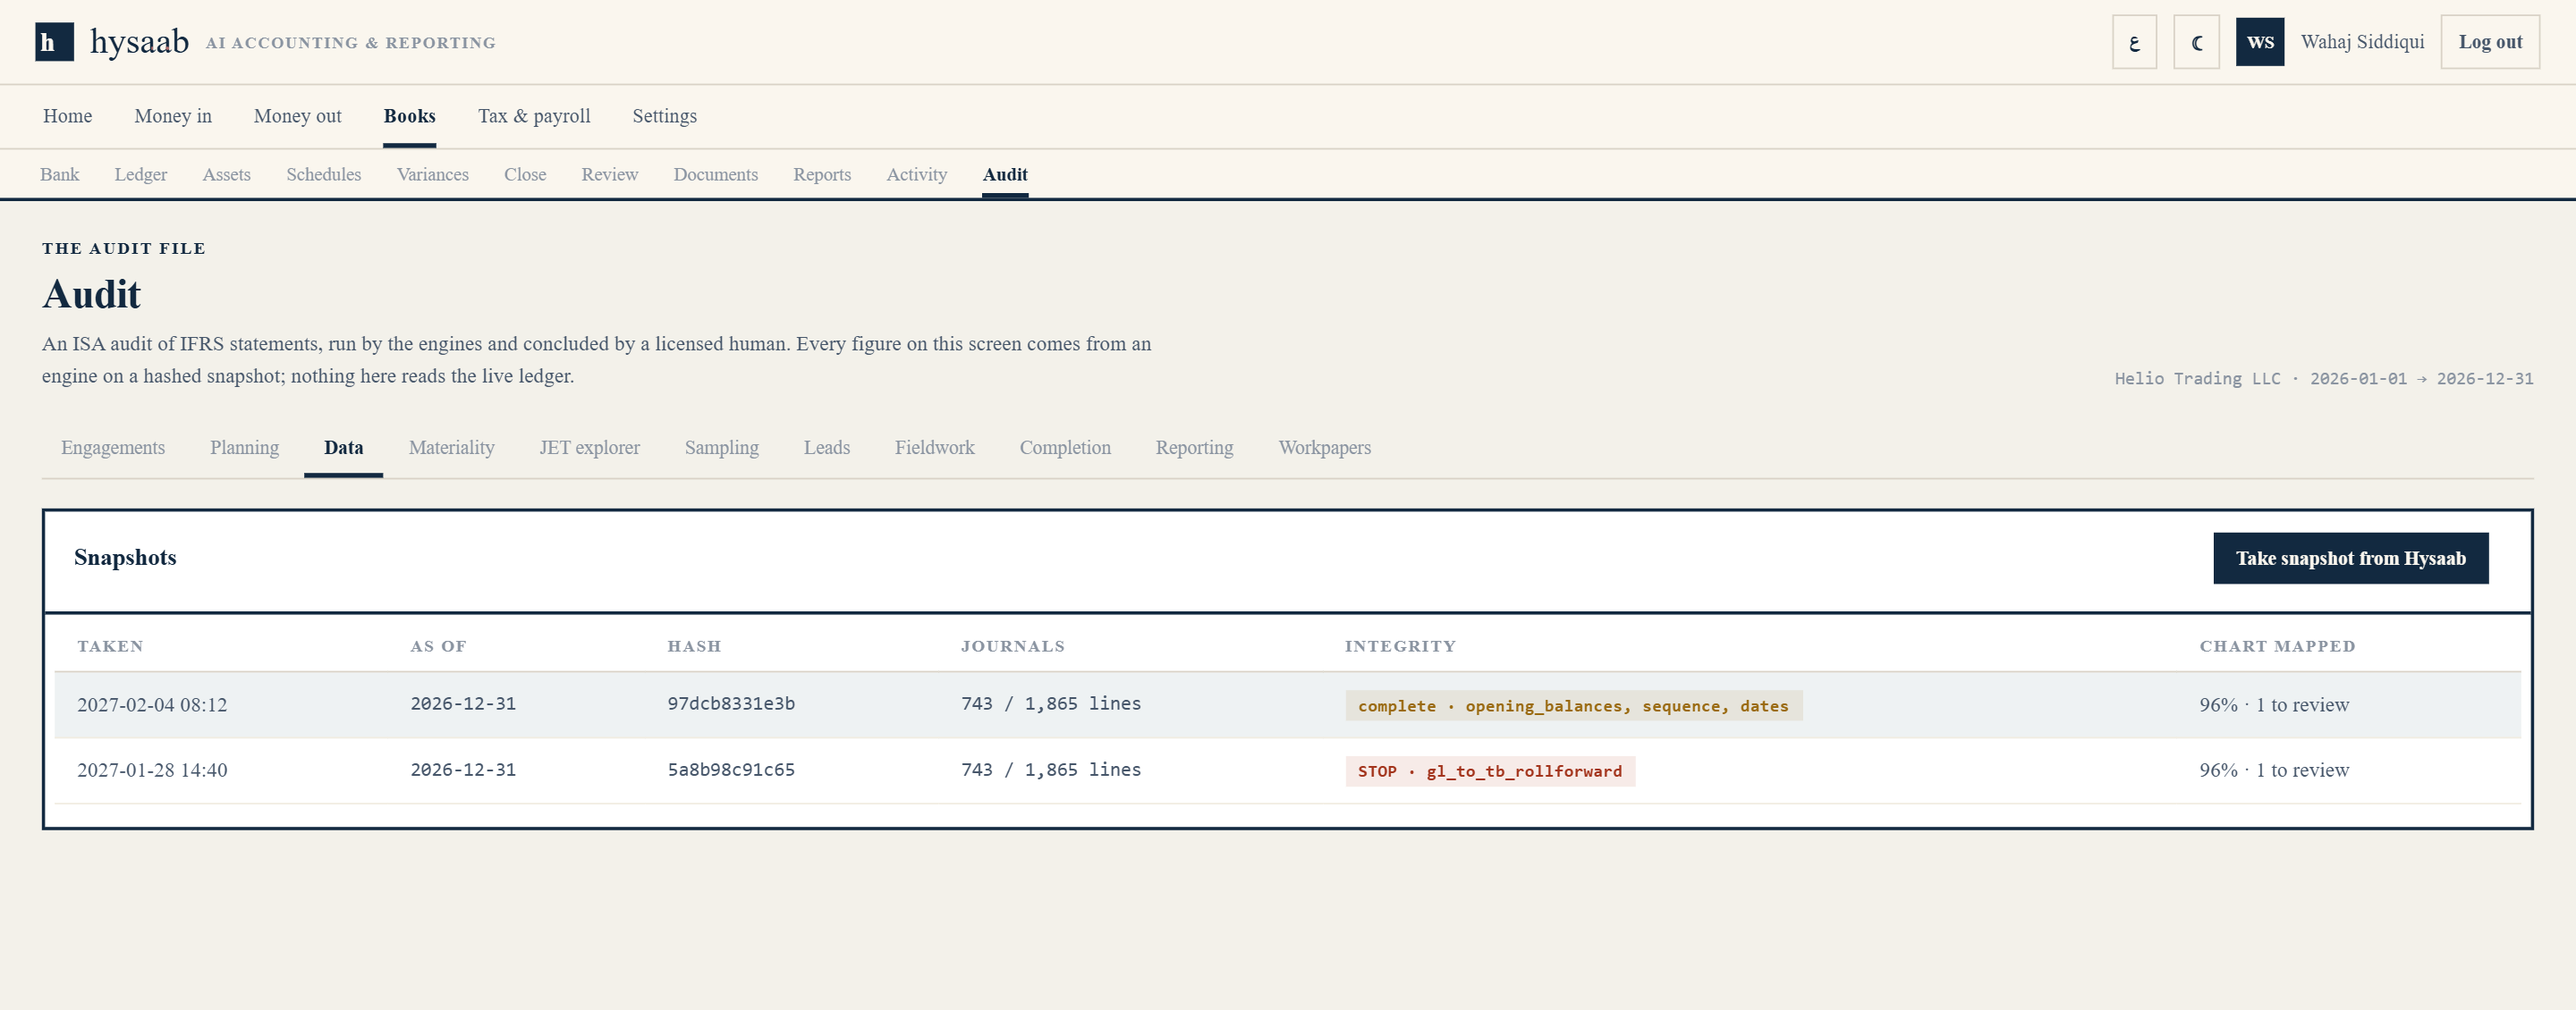
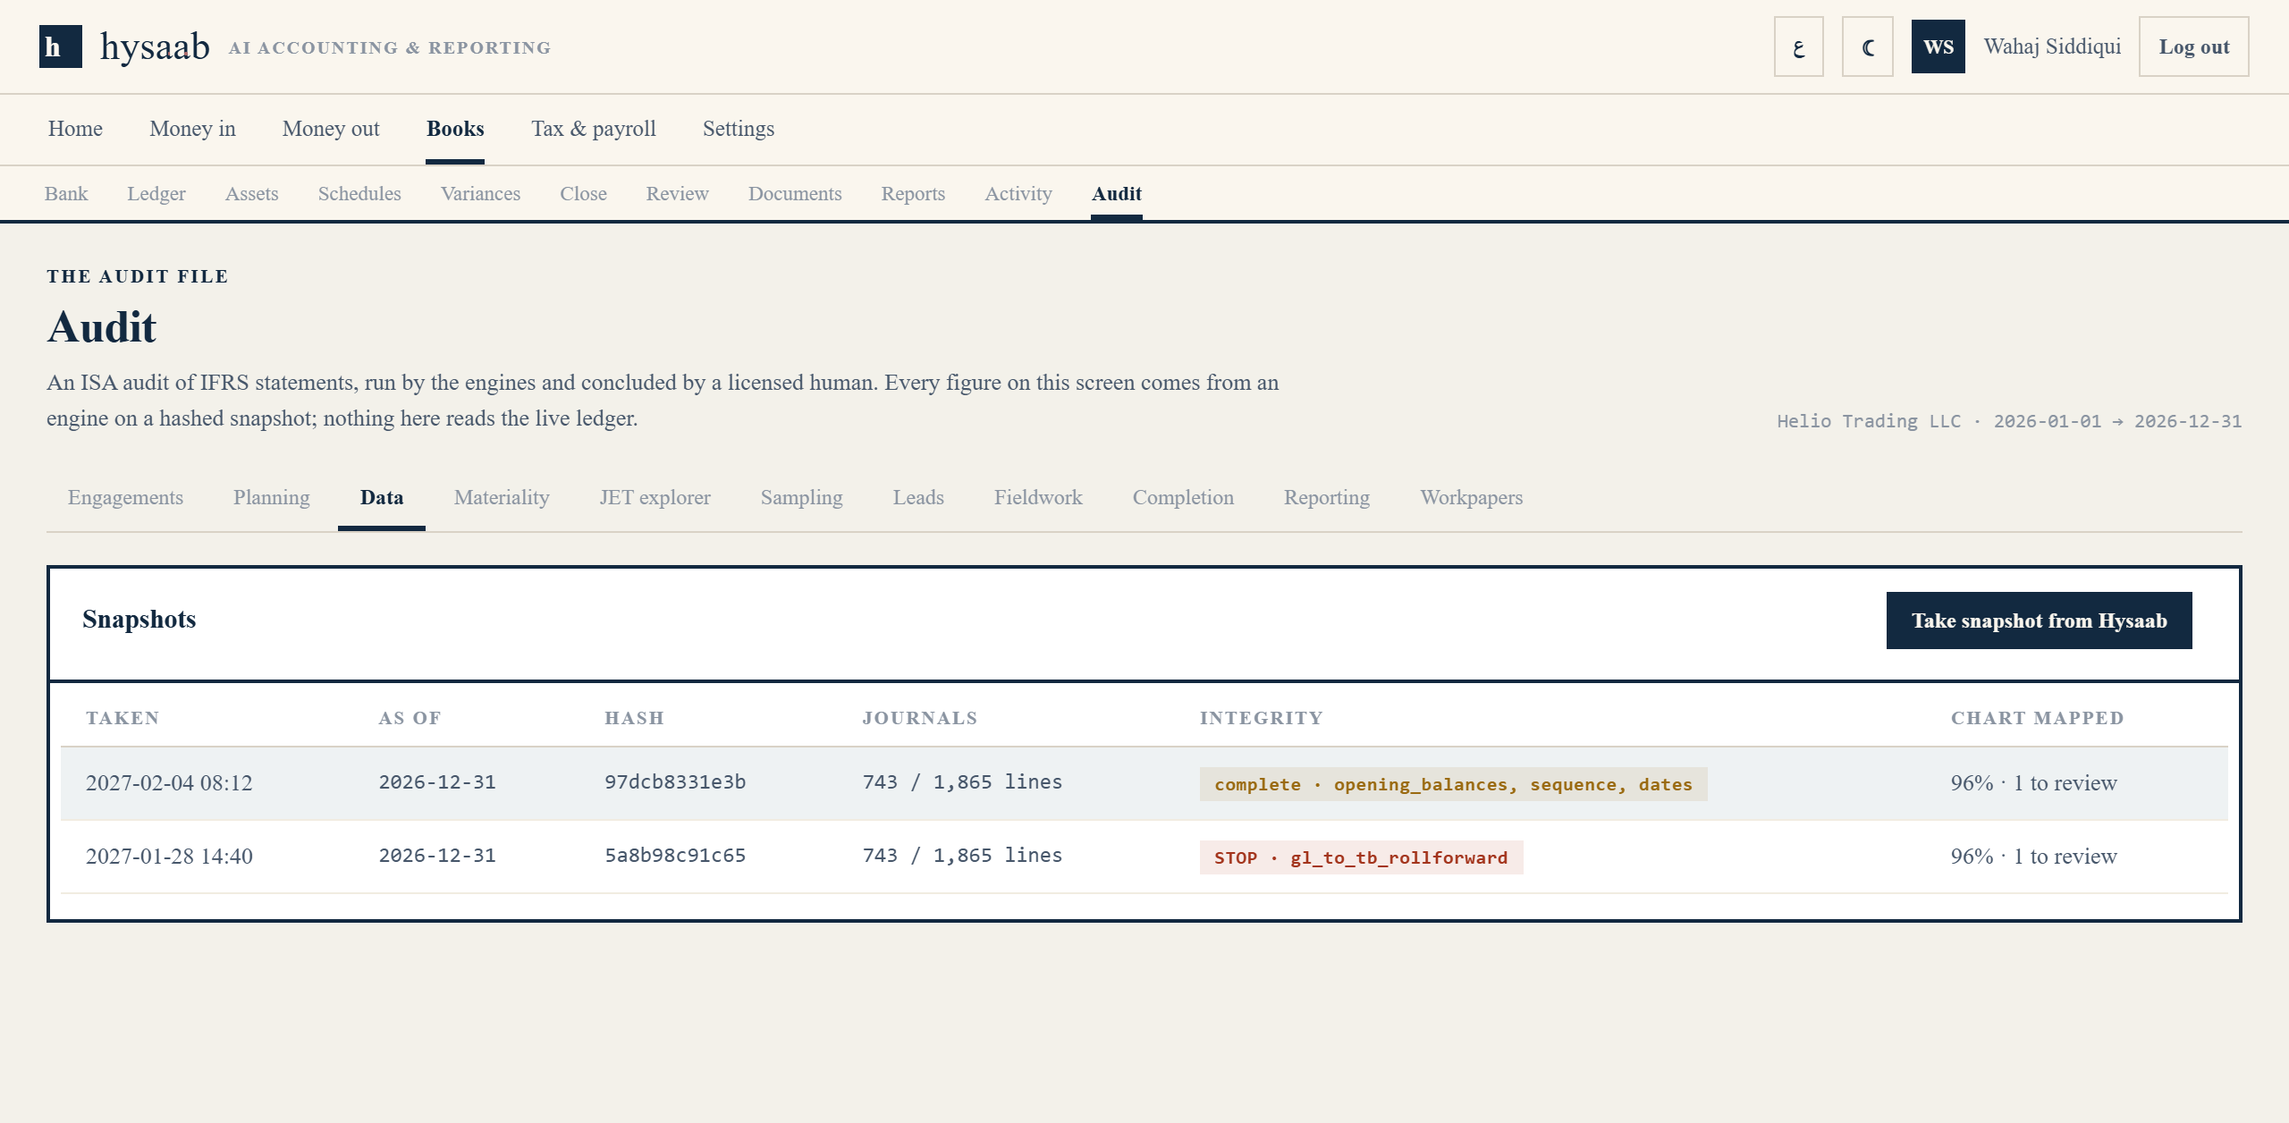
Fix a class collision that broke the homepage demo, and make the audit shots readable
Two faults, one of them mine from this morning and live since.

1. .hy-step and .hy-steps already belong to the homepage Demo component.
   The walkthrough I added reused both names, so every demo beat picked up
   56px of padding and a rule, the numbered badge (a 16px navy square) was
   restyled into an uppercase blush kicker, and the annotation column
   collapsed to one word a line. On /audit the same collision rendered each
   step kicker as a black square with its label wrapping behind the heading.
   The walkthrough classes are now hy-walk*, and the Demo is back to its
   original geometry: 16x16 navy badge, flex row, no padding, 11.5px body.

2. The screenshots were unreadable. The app was captured at a 1590px
   viewport and shown in a 797px column, so its 12.5px type landed at 6px,
   and next/image was serving a 780px source into that box and upscaling it.
   The walkthrough now runs full width with the copy above the shot, the app
   is recaptured at a 1280px viewport, and sizes is honest. The app renders
   at 1.04x on a 1440px screen: every figure legible at last.

The hero is now the materiality card on its own rather than a whole screen
shrunk to a third: same engine output, readable at the size it is shown.

diff --git a/app/(en)/audit/page.tsx b/app/(en)/audit/page.tsx
@@ -16,7 +16,7 @@ export const metadata = {
    never by hand for the picture. */
 const STEPS: {
   n: string; h: string; p: React.ReactNode; facts: [string, React.ReactNode][];
-  shot: { src: string; w: number; h: number; alt: string }; bar: string; cap: string; flip?: boolean;
+  shot: { src: string; w: number; h: number; alt: string }; bar: string; cap: string;
 }[] = [
   {
     n: "01 · The population",
@@ -27,7 +27,7 @@ const STEPS: {
       ["Sequence", <>Missing journal numbers are listed as gaps for the client to explain.</>],
       ["Hashed", <>SHA-256 on the snapshot. Every later figure cites the hash it came from.</>],
     ],
-    shot: { src: "/shots/audit-data.png", w: 2880, h: 1130, alt: "hysaab audit snapshots: the first pull marked STOP for a broken general-ledger roll-forward, the corrected pull marked complete, both with their SHA-256 hashes" },
+    shot: { src: "/shots/audit-data.png", w: 2560, h: 1256, alt: "hysaab audit snapshots: the first pull marked STOP for a broken general-ledger roll-forward, the corrected pull marked complete, both with their SHA-256 hashes" },
     bar: "Data · snapshots and integrity",
     cap: "The first snapshot stopped the file: the client's trial balance predated a journal in the ledger.",
   },
@@ -40,10 +40,9 @@ const STEPS: {
       ["Materiality", <>Computed from this year's figures, with every candidate benchmark shown and the choice explained.</>],
       ["The programme", <>Only the procedures that fit the chart are instantiated. No tax recompute where there is no tax account.</>],
     ],
-    shot: { src: "/shots/audit-planning.png", w: 2544, h: 2320, alt: "hysaab audit planning: phase strip, the B6 risk register with nine significant risks by line and assertion, and the planning procedures with their last run" },
+    shot: { src: "/shots/audit-planning.png", w: 2540, h: 2360, alt: "hysaab audit planning: phase strip, the B6 risk register with nine significant risks by line and assertion, and the planning procedures with their last run" },
     bar: "Planning · risk register and procedures",
     cap: "Nine significant risks, each with the factor that raised it. The gate stays shut until the partner approves.",
-    flip: true,
   },
   {
     n: "03 · Journal-entry testing",
@@ -54,7 +53,7 @@ const STEPS: {
       ["Thirty criteria", <>Post-close postings, round numbers, weekends and holidays, blank narratives, seldom-used accounts, keyword hits, duplicates, reversals, segregation conflicts, entries just below an approval threshold.</>],
       ["Auditable", <>Each row carries the criteria that flagged it. The selection is seeded, so it reproduces.</>],
     ],
-    shot: { src: "/shots/audit-jet.png", w: 2544, h: 2320, alt: "hysaab audit journal-entry testing: every journal scored against thirty criteria, stratified above performance materiality, scored and random, with the criteria hits and vouching result on each row" },
+    shot: { src: "/shots/audit-jet.png", w: 2540, h: 2360, alt: "hysaab audit journal-entry testing: every journal scored against thirty criteria, stratified above performance materiality, scored and random, with the criteria hits and vouching result on each row" },
     bar: "JET explorer · ISA 240 journal testing",
     cap: "The top rows are the planted ones: revenue booked after year-end, a suspense plug, a duplicate payment, a capitalised expense, a related-party fee.",
   },
@@ -67,10 +66,9 @@ const STEPS: {
       ["Attribute too", <>Control testing at ninety-five percent confidence with its own sample table.</>],
       ["Honest answer", <>An upper limit above performance materiality is reported as not accepted, not explained away.</>],
     ],
-    shot: { src: "/shots/audit-sampling.png", w: 2544, h: 2320, alt: "hysaab audit sampling workbench: monetary-unit sample design, the selection with top stratum and sampled items, audited values entered, and the evaluation with the upper misstatement limit" },
+    shot: { src: "/shots/audit-sampling.png", w: 2540, h: 2360, alt: "hysaab audit sampling workbench: monetary-unit sample design, the selection with top stratum and sampled items, audited values entered, and the evaluation with the upper misstatement limit" },
     bar: "Sampling · monetary-unit sample",
     cap: "Upper limit 563,355 against performance materiality 231,800. The engine calls it: not accepted.",
-    flip: true,
   },
   {
     n: "05 · Fieldwork",
@@ -81,7 +79,7 @@ const STEPS: {
       ["Reliability", <>Scored by route and sender domain. A forwarded reply is evidence of a different grade.</>],
       ["Sent by people", <>Letters leave the firm's own mailbox. The software drafts them and tracks them.</>],
     ],
-    shot: { src: "/shots/audit-fieldwork.png", w: 2544, h: 2320, alt: "hysaab audit fieldwork: the confirmation tracker with book and confirmed balances, reliability and status, and the information request list with owners, due dates and received status" },
+    shot: { src: "/shots/audit-fieldwork.png", w: 2540, h: 2360, alt: "hysaab audit fieldwork: the confirmation tracker with book and confirmed balances, reliability and status, and the information request list with owners, due dates and received status" },
     bar: "Fieldwork · confirmations and requests",
     cap: "One exception of 42,750, one reply routed through the client, one escalated to alternative procedures.",
   },
@@ -94,10 +92,9 @@ const STEPS: {
       ["Subsequent events", <>Post-period journals and minutes are scanned and classified adjusting or non-adjusting, with the IAS 10 reference.</>],
       ["File completion", <>Nine checks on the file itself. Two are still open on this engagement, and it says so.</>],
     ],
-    shot: { src: "/shots/audit-completion.png", w: 2544, h: 2400, alt: "hysaab audit completion: the misstatement register evaluated against materiality on both bases, going concern with stress headroom, file completion checks, and the subsequent events classified under IAS 10" },
+    shot: { src: "/shots/audit-completion.png", w: 2540, h: 2460, alt: "hysaab audit completion: the misstatement register evaluated against materiality on both bases, going concern with stress headroom, file completion checks, and the subsequent events classified under IAS 10" },
     bar: "Completion · the misstatement register",
     cap: "Five findings, four above clearly trivial, one aggregate the partner has to act on.",
-    flip: true,
   },
   {
     n: "07 · The file",
@@ -108,7 +105,7 @@ const STEPS: {
       ["Versions", <>Immutable. The reason for every new version is on the paper.</>],
       ["Conclusions", <>A reviewer cannot sign a judgement workpaper without recording a conclusion in their own words.</>],
     ],
-    shot: { src: "/shots/audit-workpapers.png", w: 2544, h: 1968, alt: "hysaab audit workpaper file: twenty-one workpapers with their review state, and the trade receivables lead schedule open with tick marks, the sub-ledger difference and an inconclusive conclusion" },
+    shot: { src: "/shots/audit-workpapers.png", w: 2540, h: 2460, alt: "hysaab audit workpaper file: twenty-one workpapers with their review state, and the trade receivables lead schedule open with tick marks, the sub-ledger difference and an inconclusive conclusion" },
     bar: "Workpapers · the audit file",
     cap: "The receivables lead is inconclusive because the sub-ledger is 15,000 short. It stays inconclusive until someone explains it.",
   },
@@ -153,7 +150,7 @@ export default function AuditPage() {
                   <Wordmark size={15} ground="navy" suffix={false} />
                   <span className="hy-shot-t">audit · materiality</span>
                 </figcaption>
-                <Image src="/shots/audit-materiality.png" width={2880} height={1701} sizes="(max-width: 1120px) 100vw, 760px" priority alt="hysaab audit materiality screen: overall, performance and clearly trivial materiality with every candidate benchmark and the rationale for the one chosen" />
+                <Image src="/shots/audit-materiality-card.png" width={1925} height={1231} sizes="(max-width: 1120px) 100vw, 780px" priority alt="hysaab audit materiality: overall 386,400, performance 231,800 and clearly trivial 19,300, with every candidate benchmark and the engine’s written rationale for the one chosen" />
                 <figcaption className="hy-shot-cap">Illustrative engagement. Helio Trading LLC is a fictional UAE trading company; every figure was computed by the audit engines on its seeded books.</figcaption>
               </figure>
             </div>
@@ -219,23 +216,27 @@ export default function AuditPage() {
               </div>
               <span className="hy-note" style={{ maxWidth: 400 }}>These are the real screens on a seeded engagement: a fictional UAE trading company with misstatements of known type planted in its books, so you can watch the engines find them.</span>
             </div>
-            <div className="hy-steps">
+            <div className="hy-walk">
               {STEPS.map((s) => (
-                <div className={`hy-step${s.flip ? " hy-step--flip" : ""}`} key={s.n}>
-                  <div className="hy-step-copy">
-                    <span className="hy-step-n">{s.n}</span>
-                    <h3 className="hy-step-h">{s.h}</h3>
-                    <p className="hy-step-p">{s.p}</p>
-                    <ul className="hy-step-facts">
-                      {s.facts.map(([k, v]) => <li key={k}><strong>{k}</strong><span>{v}</span></li>)}
-                    </ul>
+                <div className="hy-walk-item" key={s.n}>
+                  <div className="hy-walk-head">
+                    <div className="hy-walk-copy">
+                      <span className="hy-walk-n">{s.n}</span>
+                      <h3 className="hy-walk-h">{s.h}</h3>
+                    </div>
+                    <div className="hy-walk-body">
+                      <p className="hy-walk-p">{s.p}</p>
+                      <ul className="hy-walk-facts">
+                        {s.facts.map(([k, v]) => <li key={k}><strong>{k}</strong><span>{v}</span></li>)}
+                      </ul>
+                    </div>
                   </div>
                   <figure className="hy-shot">
                     <figcaption className="hy-shot-bar">
                       <Wordmark size={14} ground="navy" suffix={false} />
                       <span className="hy-shot-t">{s.bar}</span>
                     </figcaption>
-                    <Image src={s.shot.src} width={s.shot.w} height={s.shot.h} sizes="(max-width: 900px) 100vw, 780px" alt={s.shot.alt} />
+                    <Image src={s.shot.src} width={s.shot.w} height={s.shot.h} sizes="(max-width: 1320px) 100vw, 1256px" alt={s.shot.alt} />
                     <figcaption className="hy-shot-cap">{s.cap}</figcaption>
                   </figure>
                 </div>

diff --git a/app/home.css b/app/home.css
@@ -633,23 +633,25 @@ textarea.hy-input { resize: vertical; min-height: 96px; line-height: 1.5; }
 .hy-hero-win .hy-shot--hero { box-shadow: 16px 16px 0 var(--hy-blush); width: 100%; }
 @media (max-width: 719px) { .hy-shot { box-shadow: 9px 9px 0 var(--hy-blush); margin-right: 9px; } }
 
-.hy-steps { margin-top: 36px; }
-.hy-step { display: grid; grid-template-columns: minmax(280px, 0.8fr) minmax(0, 1.35fr); gap: 48px; align-items: center; padding: 52px 0; border-top: 1px solid var(--hy-rule); }
-.hy-step:first-child { border-top: none; padding-top: 12px; }
-.hy-step--flip { grid-template-columns: minmax(0, 1.35fr) minmax(280px, 0.8fr); }
-.hy-step--flip .hy-step-copy { order: 2; }
-.hy-step-copy { display: flex; flex-direction: column; gap: 14px; min-width: 0; }
-.hy-step-n { font-size: 11px; font-weight: 700; letter-spacing: 0.16em; text-transform: uppercase; color: var(--hy-blush-text); font-variant-numeric: tabular-nums; }
-.hy-step-h { margin: 0; font-size: clamp(22px, 2.1vw, 29px); font-weight: 600; letter-spacing: -0.022em; line-height: 1.12; color: var(--hy-navy); }
-.hy-step-p { margin: 0; font-size: 15px; line-height: 1.62; color: var(--hy-body); }
-.hy-step-facts { list-style: none; margin: 6px 0 0; padding: 0; border-top: 1px solid var(--hy-rule); }
-.hy-step-facts li { display: grid; grid-template-columns: 132px minmax(0, 1fr); gap: 14px; padding: 10px 0; border-bottom: 1px solid var(--hy-rule); font-size: 13.5px; line-height: 1.5; color: var(--hy-body); }
-.hy-step-facts strong { font-size: 11.5px; font-weight: 700; letter-spacing: 0.1em; text-transform: uppercase; color: var(--hy-navy); padding-top: 2px; }
-@media (max-width: 900px) {
-  .hy-step, .hy-step--flip { grid-template-columns: 1fr; gap: 26px; padding: 40px 0; }
-  .hy-step--flip .hy-step-copy { order: 0; }
-}
-@media (max-width: 480px) { .hy-step-facts li { grid-template-columns: 1fr; gap: 3px; } }
+/* Named hy-walk, not hy-step: .hy-step and .hy-steps already belong to the
+   homepage Demo component and a collision silently restyles it. */
+.hy-walk { margin-top: 36px; }
+/* The screenshots are the argument, so they get the full content width and
+   the app is captured at a viewport close to it: anything narrower renders
+   the app's 12.5px type at 6px and nobody can read the evidence. */
+.hy-walk-item { display: block; padding: 56px 0; border-top: 1px solid var(--hy-rule); }
+.hy-walk-item:first-child { border-top: none; padding-top: 8px; }
+.hy-walk-head { display: grid; grid-template-columns: minmax(0, 0.95fr) minmax(0, 1.15fr); gap: 28px 56px; align-items: start; margin-bottom: 30px; }
+.hy-walk-copy { display: flex; flex-direction: column; gap: 12px; min-width: 0; }
+.hy-walk-body { display: flex; flex-direction: column; gap: 14px; min-width: 0; }
+.hy-walk-n { font-size: 11px; font-weight: 700; letter-spacing: 0.16em; text-transform: uppercase; color: var(--hy-blush-text); font-variant-numeric: tabular-nums; }
+.hy-walk-h { margin: 0; font-size: clamp(24px, 2.4vw, 33px); font-weight: 600; letter-spacing: -0.024em; line-height: 1.1; color: var(--hy-navy); }
+.hy-walk-p { margin: 0; font-size: 15.5px; line-height: 1.62; color: var(--hy-body); }
+.hy-walk-facts { list-style: none; margin: 0; padding: 0; border-top: 1px solid var(--hy-rule); }
+.hy-walk-facts li { display: grid; grid-template-columns: 132px minmax(0, 1fr); gap: 14px; padding: 9px 0; border-bottom: 1px solid var(--hy-rule); font-size: 13.5px; line-height: 1.5; color: var(--hy-body); }
+.hy-walk-facts strong { font-size: 11.5px; font-weight: 700; letter-spacing: 0.1em; text-transform: uppercase; color: var(--hy-navy); padding-top: 2px; }
+@media (max-width: 900px) { .hy-walk-head { grid-template-columns: 1fr; gap: 18px; } .hy-walk-item { padding: 40px 0; } }
+@media (max-width: 480px) { .hy-walk-facts li { grid-template-columns: 1fr; gap: 3px; } }
 
 .hy-phases { display: grid; grid-template-columns: repeat(7, minmax(0, 1fr)); gap: 1px; background: var(--hy-rule); border: 1px solid var(--hy-rule); margin-top: 32px; }
 .hy-phase { background: var(--hy-white); padding: 18px 16px; display: flex; flex-direction: column; gap: 6px; }
